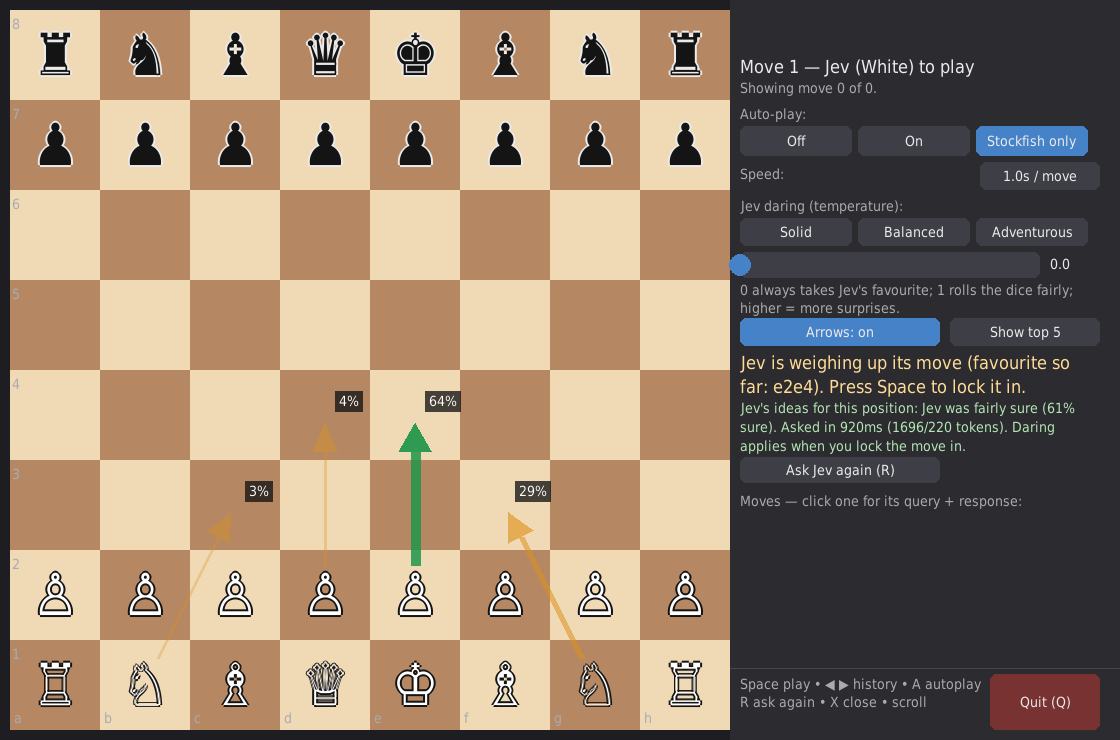
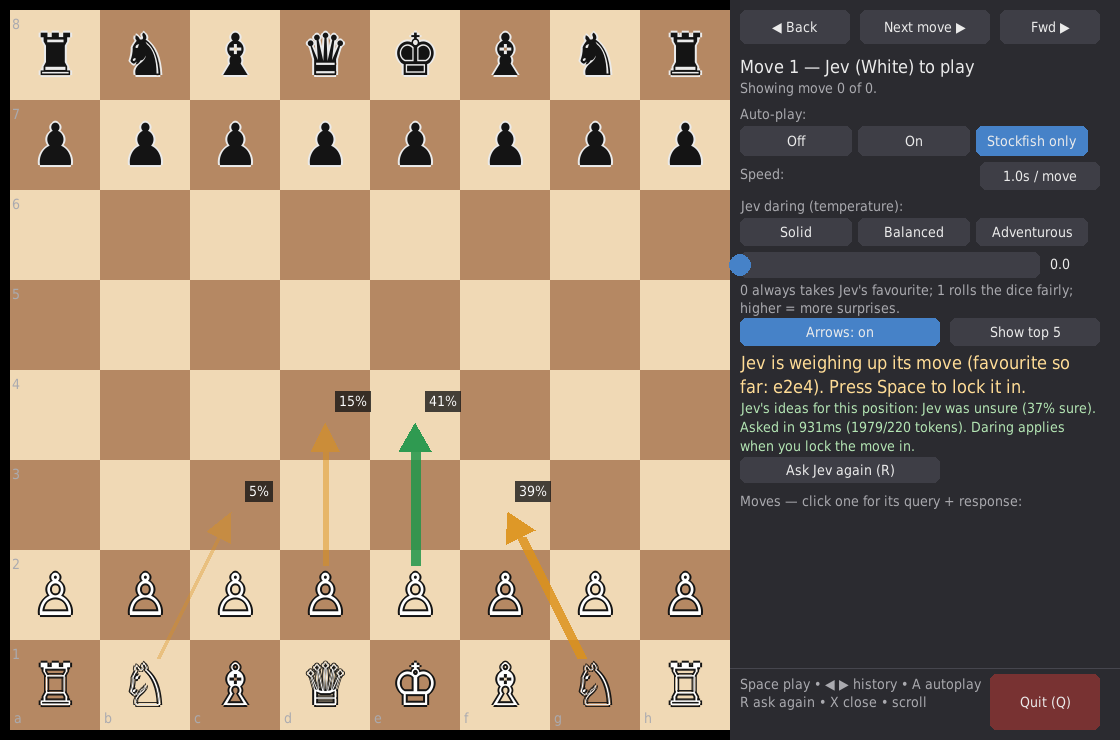
Agent README + screenshots; fix hidden nav buttons and JSON overflow

diff --git a/src/jev_chess/ui_pygame.py b/src/jev_chess/ui_pygame.py
@@ -474,7 +474,23 @@ class App:
             max_scroll = max(0, len(lines) - count)
             self.detail_scroll = max(0, min(self.detail_scroll, max_scroll))
             mono = pygame.font.SysFont("dejavusansmono", 12)
-            for line in lines[self.detail_scroll: self.detail_scroll + count]:
+            wrapped: list[str] = []
+            for line in lines:
+                cur = ""
+                for w in line.split(" "):
+                    trial = f"{cur} {w}".strip()
+                    if mono.size(trial)[0] <= 348:
+                        cur = trial
+                    else:
+                        if cur:
+                            wrapped.append(cur)
+                        cur = w if mono.size(w)[0] <= 348 else w[:60]
+                if cur:
+                    wrapped.append(cur)
+            self.detail_lines = wrapped
+            max_scroll = max(0, len(wrapped) - count)
+            self.detail_scroll = max(0, min(self.detail_scroll, max_scroll))
+            for line in wrapped[self.detail_scroll: self.detail_scroll + count]:
                 img = mono.render(line[:90], True, (210, 220, 235))
                 self.screen.blit(img, (PANEL_X + 4, y))
                 y += per
@@ -626,10 +642,11 @@ class App:
                 self.draw_arrows(self.preview_dist.probs)
             elif self.show_arrows and cur is not None and cur.side == "white" and cur.jev_probs:
                 self.draw_arrows(cur.jev_probs)
+            self.draw_panel(board)
+            # Buttons last: draw_panel paints the panel background over this area.
             self.btn_back.draw(self.screen, self.small)
             self.btn_next.draw(self.screen, self.small)
             self.btn_fwd.draw(self.screen, self.small)
-            self.draw_panel(board)
             pygame.display.flip()
 
 

diff --git a/README.md b/README.md
@@ -6,62 +6,84 @@ Jev (White, via [TypeSafe](https://docs.typesafe.ai)) plays chess against Stockf
 
 ![Expanded move detail showing the Jev query and response JSON](docs/02-detail.png)
 
+![Mid-game: Jev weighing its third move with history and confidences](docs/03-midgame.png)
+
 ## How it works
 
-Jev is a System One model: it can't generate moves, it can only pick from options you give it. So each Jev turn:
+Jev is a System One model: it cannot generate moves, it can only pick from options you give it. Each Jev turn (`src/jev_chess/jev_player.py:120`):
 
-1. The board is encoded as JSON state (`fen`, side to move, check status, ASCII board, every legal move with a human-readable description).
-2. One `Choice` question asks Jev to pick the best move. The answer is a full probability distribution over the legal moves, plus confidence.
-3. The distribution is fetched automatically right after Stockfish moves (one API call, cached per position) and drawn as arrows on the current board.
-4. Pressing Space **locks the move in** by sampling the cached distribution with the current daring setting — no second API call.
+1. The board is encoded as a JSON `state` (`src/jev_chess/jev_player.py:74`): `moves_san`, `movetext` (e.g. `"1. e4 e5"`), `turn`, `is_check`, `last_move` (UCI or `None`), `board_ascii`, and `legal_moves` (`[{uci, san, descr}]`).
+2. Each legal move gets a human-readable criterion string (`src/jev_chess/jev_player.py:26`): `"Nf3: Knight g1 to f3"` plus consequence flags — capture (with piece value), promotion, check, castling, en passant, and whether the landing square is safe / defended / hanging.
+3. One `Choice` question (`questions = {"move": {instructions, criteria}}`, UCI keys) asks Jev to pick the best move. The answer is a full probability distribution over the legal moves, plus confidence and token usage.
+4. The distribution is fetched automatically right after Stockfish moves and at game start (one API call, cached per-FEN in `App.preview_fen` / `preview_dist`, `src/jev_chess/ui_pygame.py:148`) and drawn as arrows on the current board. History frames keep stored distributions for hindsight.
+5. Pressing Space **locks the move in** by sampling the cached distribution with the current temperature (`Game.play_white_from_distribution`, `src/jev_chess/game.py:83`) — no second API call. The cache is valid only for the exact FEN it was fetched for (`preview_usable`, `src/jev_chess/board_viz.py:68`).
 
-Daring (temperature) in one function: `0` always takes Jev's favourite, `1` rolls the dice fairly over its distribution, higher is more adventurous (`p ∝ p^(1/T)`).
+Temperature (`src/jev_chess/sampling.py:15`): `0` always takes Jev's favourite (argmax, deterministic sorted tiebreak), `1` samples the raw distribution, `<1` sharpens, `>1` flattens (`p_T(i) ∝ p_i^(1/T)`, renormalized; `p=0` stays 0). Seeded via `random.Random(seed)` for determinism. If Jev returns an illegal/unknown UCI, `resolve_uci` (`src/jev_chess/jev_player.py:182`) falls back to the highest-probability legal move.
 
 ## Requirements
 
 - Python 3.10+, [uv](https://docs.astral.sh/uv/)
-- Stockfish (`sudo apt install stockfish` / `brew install stockfish`)
-- A TypeSafe API key in `.env`:
+- Stockfish (`sudo apt install stockfish` / `brew install stockfish`), or pass `--engine-path`
+- A TypeSafe API key in `.env` (gitignored, loaded via `python-dotenv`):
   ```
   TYPESAFE_API_KEY=apikey_...
   ```
 
-## Run
+## Quickstart
 
 ```sh
 uv sync
 uv run python -m jev_chess.ui_pygame   # GUI (starts in Stockfish-only autoplay)
 uv run python -m jev_chess.cli         # terminal fallback
+uv run pytest -q                       # tests
 ```
 
-Options: `--temperature 0`, `--autoplay off|on|opponent`, `--engine-path …`, `--seed …`.
+Entry points are also installed as `jev-chess-gui` and `jev-chess` (`pyproject.toml:13`).
+
+Common flags: `--temperature 0`, `--autoplay off|on|opponent` (GUI default `opponent`), `--engine-path …`, `--engine-time …` (0.3s GUI / 0.1s CLI), `--seed …`.
 
 ## UI guide
 
-- **Next move / Space** — lock in Jev's move when its arrows are showing, otherwise play Stockfish's reply.
-- **Back / Forward** (arrow keys) — walk through history. Next is locked while viewing an old position.
-- **Auto-play** — Off (fully manual), On (both sides), Stockfish only (engine moves itself, Jev waits for Space). Speed 0.5/1/2s.
-- **Daring slider + presets** — Solid (0), Balanced (1), Adventurous (1.5). Applies at lock-in.
-- **Arrows on/off + top 3/5/8** — width and opacity scale with probability; favourite in green with % labels.
-- **Moves list** — one line per move; click to expand the exact Jev query (`state` + `questions`) and response (`answers` + `usage`) as JSON. Stockfish moves show engine detail (score, principal variation, depth). X collapses, wheel scrolls.
-- **R** asks Jev again, **A** cycles auto-play, **Q** quits.
+**Buttons / panel**
 
-## Layout
+- **Next move / Space** — when Jev's arrows are showing, locks in Jev's move by sampling the cached distribution; otherwise plays Stockfish's reply. Locked while viewing an old position or when the game is over.
+- **Back / Forward** — walk through frame history. Next is locked unless at the tip (prevents accidental branches; forking deferred, `src/jev_chess/frames.py:51`).
+- **Auto-play** — `Off` (fully manual), `On` (both sides step automatically), `Stockfish only` (engine moves itself, Jev waits for Space). Speed cycles 0.5 / 1 / 2 s per move.
+- **Daring slider (0–2) + presets** — Solid (0), Balanced (1), Adventurous (1.5). Applies at lock-in time, not fetch time, so you can change your mind after seeing the arrows.
+- **Arrows on/off + top 3/5/8/Show all** — width and opacity scale with probability; favourite in green with `%` labels. Top-K views hide moves under 1%; Show-all has no cutoff.
+- **Moves list** — one line per move with Jev confidence / Stockfish attribution; click to expand the exact Jev query (`state` + `questions`) and response (`answers` + `usage`) as JSON. Stockfish moves show engine detail (score, PV, depth). X or header collapses, mouse wheel scrolls.
 
-- `src/jev_chess/game.py` — Jev-White vs Stockfish-Black orchestration, one ply per step.
-- `src/jev_chess/jev_player.py` — board → Jev state/criteria encoding, fetch vs sample split.
-- `src/jev_chess/sampling.py` — temperature sampling.
-- `src/jev_chess/frames.py` — append-only frame history with view cursor (forking deferred).
-- `src/jev_chess/board_viz.py` — display-free helpers (arrows, autoplay, wording, JSON formatting).
-- `src/jev_chess/ui_pygame.py` / `cli.py` — pygame GUI / terminal UI.
-- `FEATURE_PLAN.md` — feature plan and acceptance criteria.
+**Hotkeys**
 
-## Tests
+| Key | Action |
+|-----|--------|
+| Space / Enter | Next move (lock in Jev / play Stockfish) |
+| ← / → | Back / forward in history |
+| A | Cycle auto-play mode |
+| R | Ask Jev again (discards cache, costs one API call) |
+| X | Close expanded move detail |
+| Q / Esc | Quit |
+| Mouse wheel | Scroll move list / detail view |
+
+## Project layout
+
+- `src/jev_chess/game.py` — Jev-White vs Stockfish-Black orchestration, one ply per step; per-FEN lock-in via `play_white_from_distribution`.
+- `src/jev_chess/jev_player.py` — board → Jev state/criteria encoding, `fetch_distribution` (one API call, no sampling) vs `resolve_uci`/`choose_move` split.
+- `src/jev_chess/sampling.py` — temperature sampling (`tempered_distribution`, `sample_move`).
+- `src/jev_chess/frames.py` — append-only frame history with view cursor; push requires tip.
+- `src/jev_chess/board_viz.py` — display-free helpers (arrows, autoplay decision, wording, JSON formatting) so logic is unit-testable headless.
+- `src/jev_chess/ui_pygame.py` / `cli.py` — pygame GUI / terminal UI fallback.
+- `tests/` — `test_sampling.py`, `test_frames.py`, `test_board_viz.py`, `test_game_white.py`, `test_jev_query.py`.
+- `FEATURE_PLAN.md` — original feature plan and acceptance criteria.
+
+## Testing
 
 ```sh
 uv run pytest -q
 ```
 
-## Notes
+Sampling (T=0 argmax, T=1 identity, flatten/sharpen, zeros stay zero, seeded determinism), frame push/navigate/lock rules, arrow ranking/cutoffs, white lock-in from a cached distribution, and Jev query encoding (UCI keys, consequence flags) are covered. GUI rendering is verified headless via dummy SDL (see `FEATURE_PLAN.md`).
 
-Jev plays legal but weak chess — it judges positions with common sense, it doesn't search. Expect it to lose to Stockfish; the point is watching *how* it decides.
+## Limitations
+
+Jev plays legal but weak chess — it judges positions with common sense, it does not search or look ahead. Expect it to lose to Stockfish; the point is watching *how* it decides. No PGN export, no takeback/branching (history push requires tip), no eval bar, no ELO strength to speak of.

diff --git a/FEATURE_PLAN.md b/FEATURE_PLAN.md
@@ -12,7 +12,11 @@ Simple bot where **Jev (White)** plays against a **python-chess engine (Black, S
 2. **Jev mover (`typesafe-sdk`, `TypeSafeClient.system_one`)**
    - Jev is System One: no free-text generation, only `Choice` over supplied options.
    - `state` (JSON object per `concepts/state.md`):
-     `{fen, turn, is_check, last_move, board_ascii, legal_moves: [{uci, san, descr}]}`
+     `{moves_san, movetext, turn, is_check, last_move, board_ascii, legal_moves: [{uci, san, descr}]}`.
+     No FEN: Jev gets readable notation instead; each option's `descr` carries
+     code-computed consequence flags (capture values, check, castling, landing-square
+     danger as attackers vs defenders) and the instructions ask for the move with the
+     best overall future given likely replies.
    - `questions = {"move": Choice(instructions=..., criteria={uci: descr})}`.
      Instructions carry full meaning; criteria keys are UCI, values are human-readable (`"Nf3: Knight g1 to f3"` + capture/check flags).
    - Legal moves ~20-40, under 255-option Choice limit.
